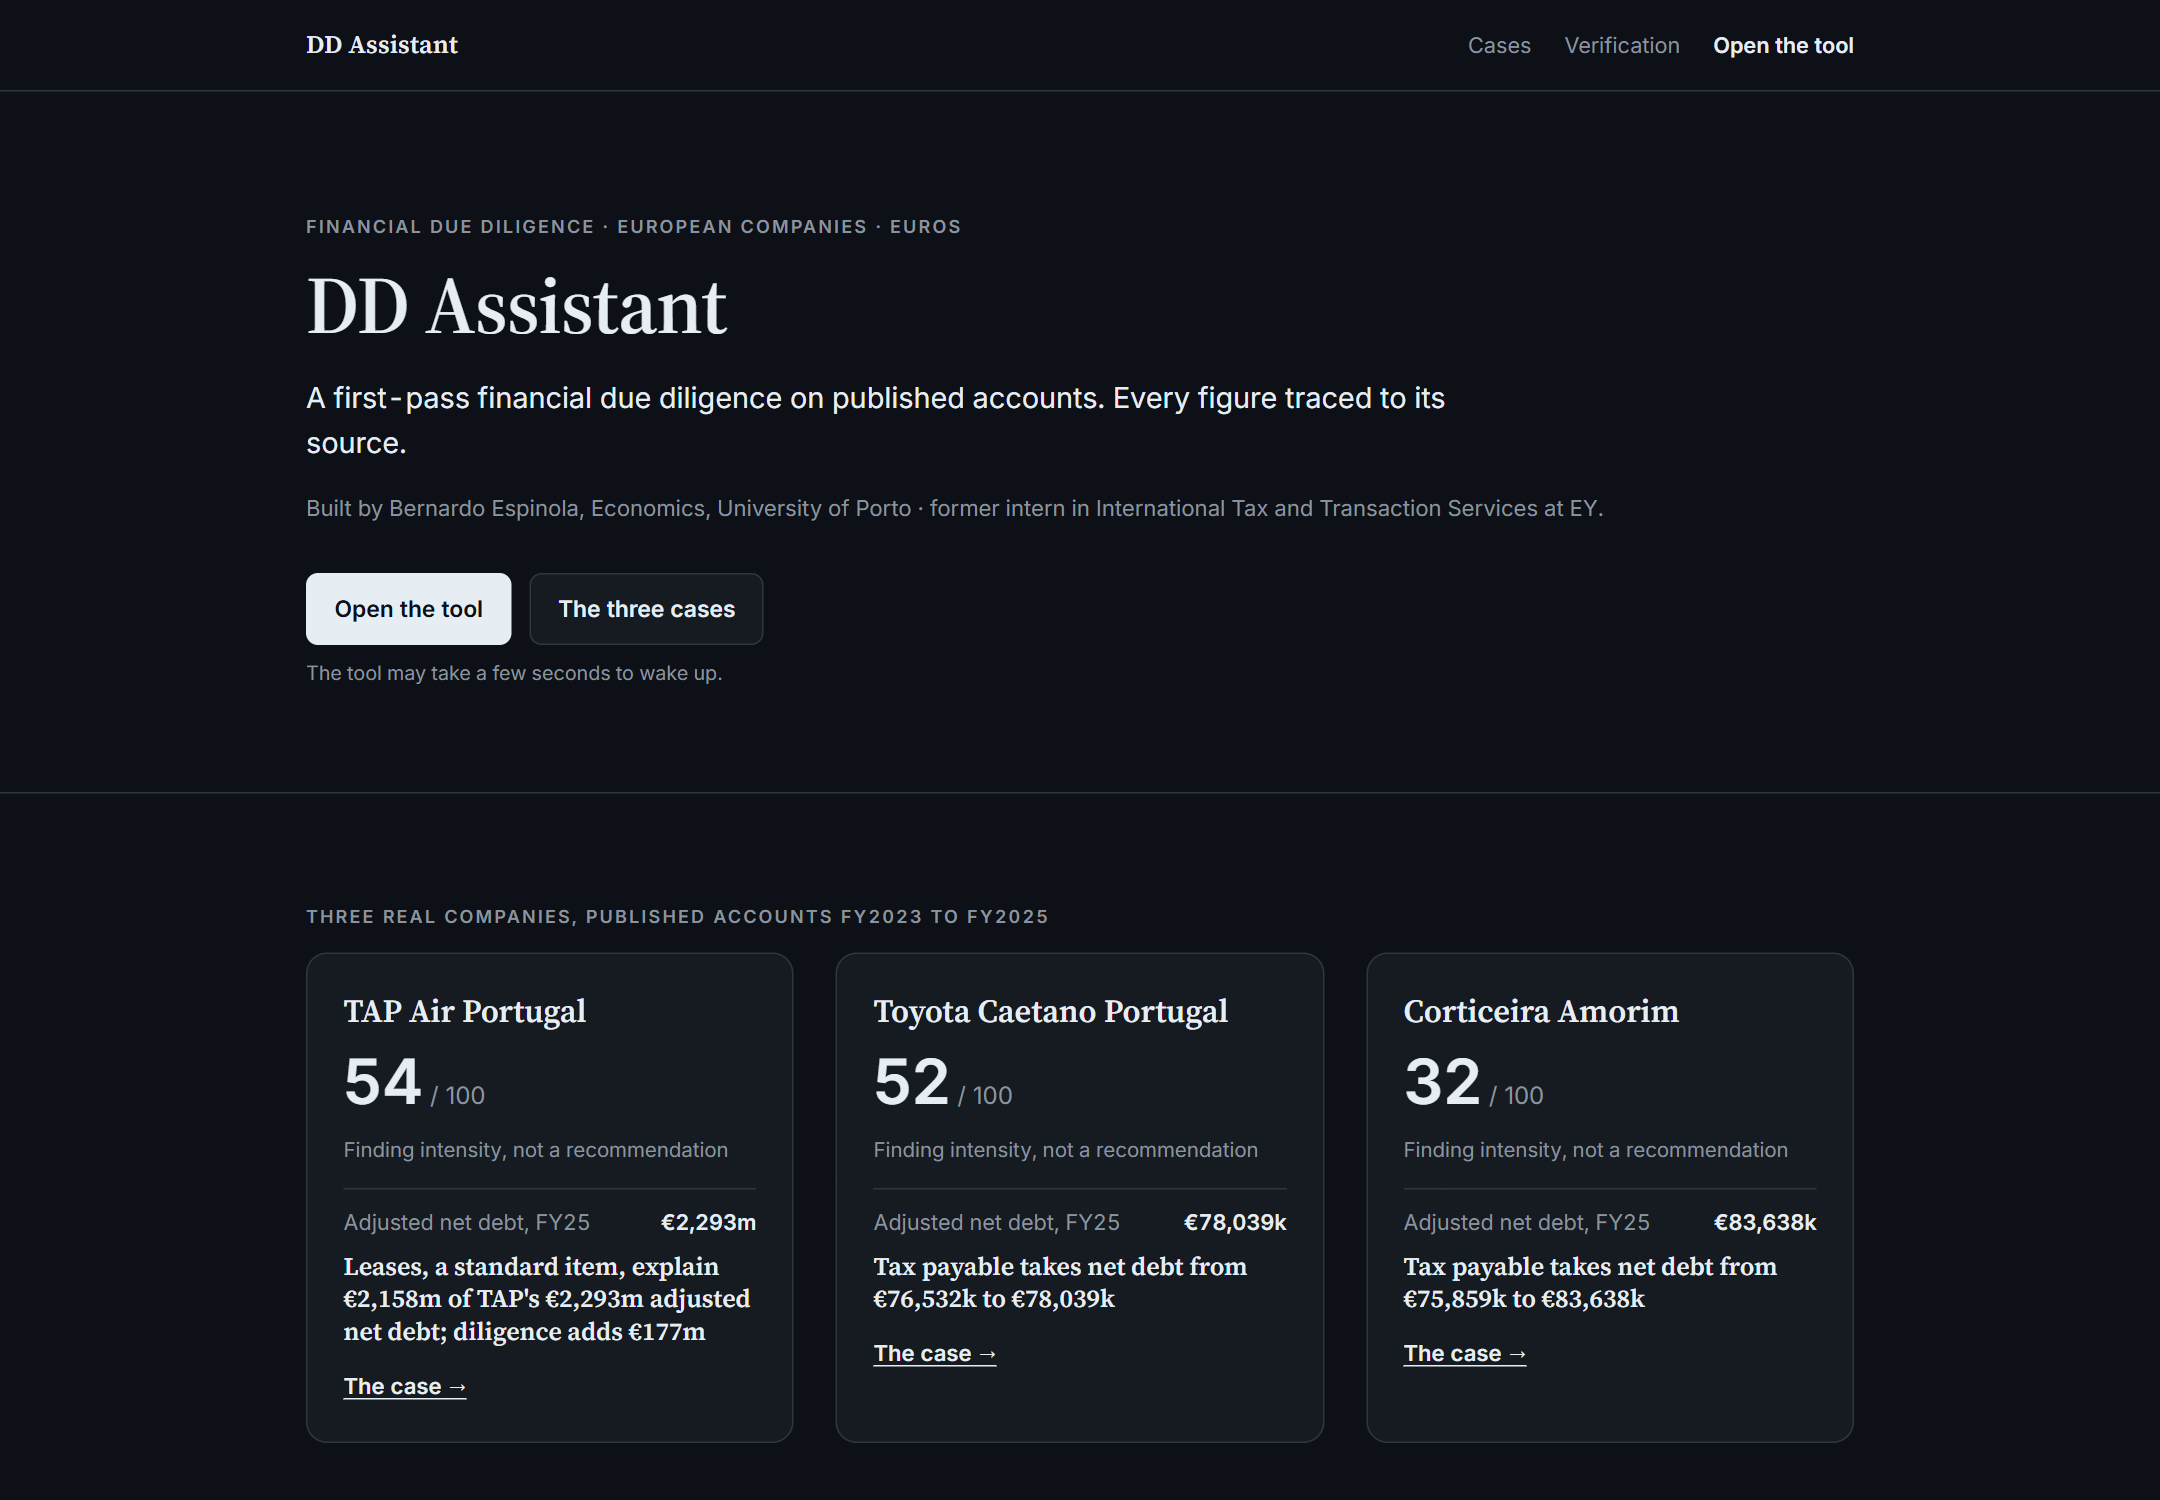
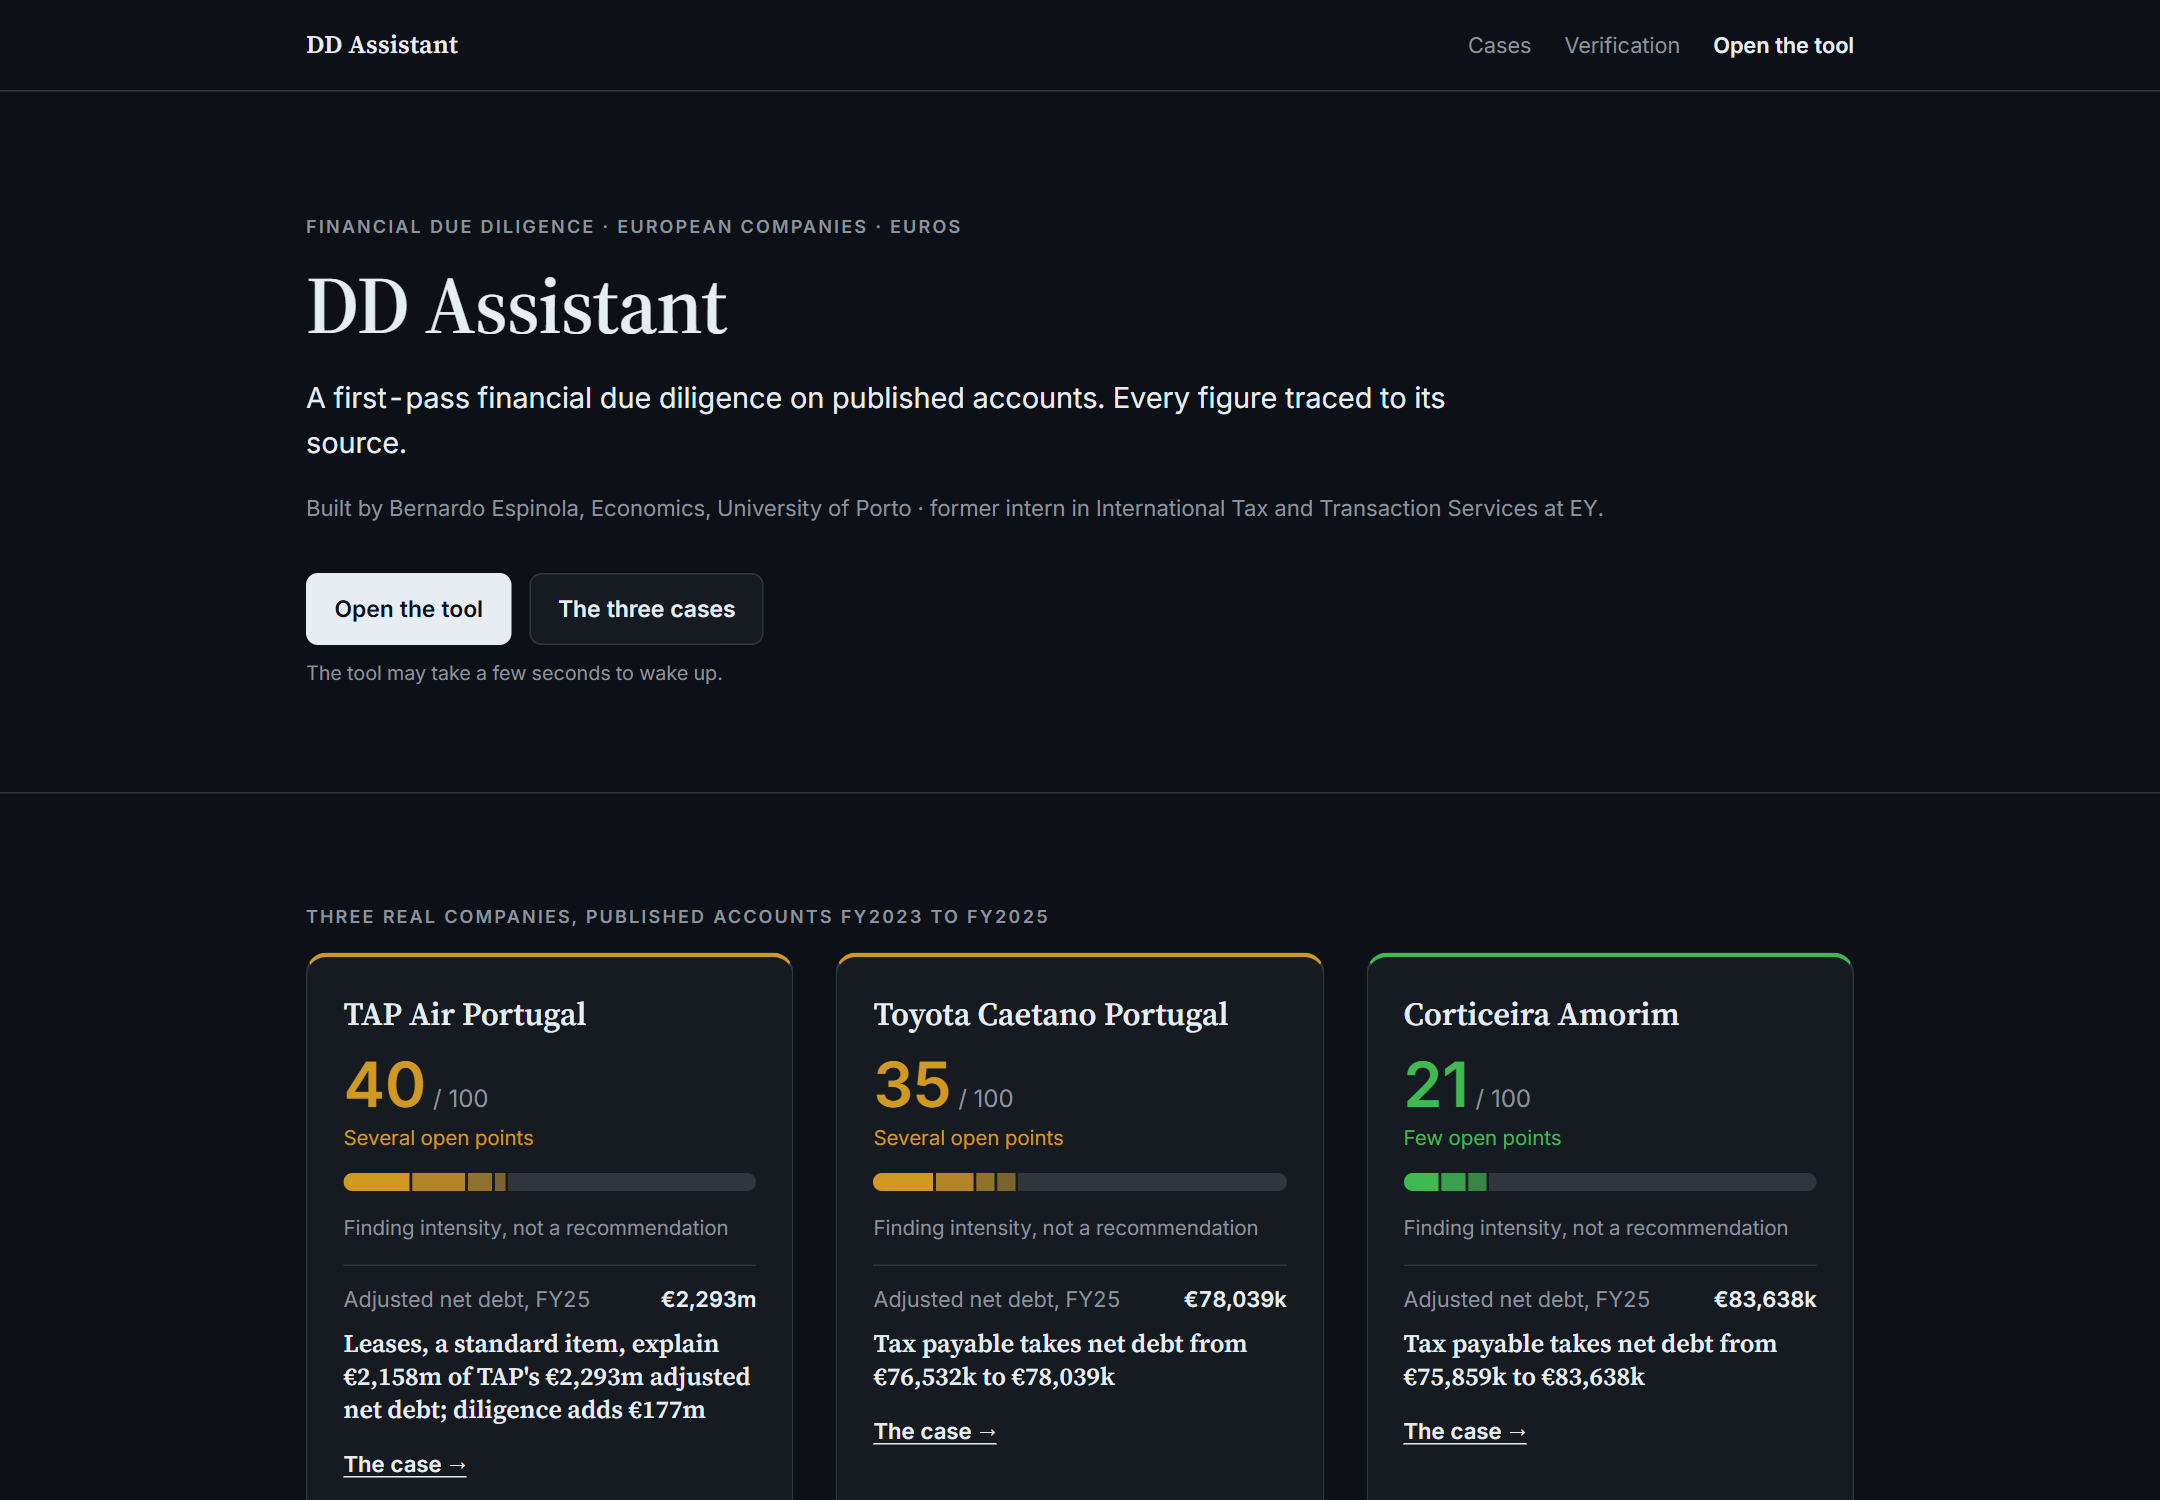
Phase 6 review: captures against the criteria; PROGRESS, GAPS and README
- scripts/demo_review.py measures the Phase 6 criteria: top readable, Summary
  without scroll, phone score within 320 px, bridges filling the card, company
  page within three screens. All met on the three companies.
- Compact view tabs on phones.
- README: new tool images, how the score works, the eight verification
  figures with their proof. PROGRESS and GAPS updated.

diff --git a/scripts/demo_review.py b/scripts/demo_review.py
@@ -1,4 +1,4 @@
-"""Review captures for docs/FASE5_DESIGN.md (section 6), with the layout criteria measured in the browser:
+"""Review captures for docs/FASE6_DESIGN.md (section 7), with the layout criteria measured in the browser:
 the tool (demo mode of app.py) for the three companies and its four views on TAP, and the static site.
 
 1. Start the tool:   $env:DD_DEMO=1; streamlit run app.py --server.port 8599
@@ -45,23 +45,35 @@ def main() -> None:
                 wide = page.evaluate("document.documentElement.scrollWidth > window.innerWidth + 1")
                 page.screenshot(path=OUT / f"tool-{name}-{size}.png")
                 if size == "desktop":
-                    parts = {"band": page.evaluate(BOTTOM, ".band"), "kpis": page.evaluate(BOTTOM, ".kpi"),
+                    parts = {"hero": page.evaluate(BOTTOM, ".hero"), "kpis": page.evaluate(BOTTOM, ".kpi"),
                              "chips": page.evaluate(BOTTOM, "[class*='st-key-chip'] button"),
                              "top5": page.evaluate(BOTTOM, ".row:not(.h)")}
                     ok = all(0 < v <= h for v in parts.values())
-                    results.append(f"1 Summary without scroll ({name}): {'met' if ok else 'FAILED'} {parts}")
+                    results.append(f"2 Summary without scroll ({name}): {'met' if ok else 'FAILED'} {parts}")
+                    top = page.evaluate("Math.min(...[...document.querySelectorAll('[data-testid=stButtonGroup], "
+                                        ".brand')].map(e => e.getBoundingClientRect().top))")
+                    bar = page.evaluate("(() => { const h = document.querySelector('[data-testid=stHeader]'); "
+                                        "return !!h && getComputedStyle(h).display !== 'none' })()")
+                    results.append(f"1 Top readable ({name}): {'met' if top <= 32 and not bar else 'FAILED'} "
+                                   f"(first control at {top:.0f} px, Streamlit bar visible={bar})")
                 else:
                     first = page.evaluate(BOTTOM, ".kpi:first-child")
-                    score = page.evaluate(BOTTOM, ".band")
-                    ok = not wide and 0 < first <= h and 0 < score <= h
+                    score = page.evaluate("document.querySelector('.hero .big').getBoundingClientRect().top")
+                    ok = not wide and 0 < score <= 320
                     results.append(f"2 Phone ({name}): {'met' if ok else 'FAILED'} horizontal scroll={wide}, "
-                                   f"score bottom={score:.0f}, first KPI bottom={first:.0f}")
+                                   f"score top={score:.0f} (criterion: within 320 px)")
                 if name == "tap":
                     for view in VIEWS:
                         page.locator("[data-testid='stButtonGroup'] button", has_text=view).first.click()
                         page.wait_for_timeout(2500)
                         page.set_viewport_size({"width": w, "height": 3600})
                         page.wait_for_timeout(1500)
+                        if view == "Impact" and size == "desktop":
+                            ratio = page.evaluate("Math.min(...[...document.querySelectorAll('.ddc-wide svg')]"
+                                                  ".map(s => s.getBoundingClientRect().width / "
+                                                  "s.closest('.ddc').getBoundingClientRect().width))")
+                            results.append(f"8 Bridges fill the card: {'met' if ratio >= .9 else 'FAILED'} "
+                                           f"(narrowest {ratio:.0%} of its card)")
                         page.screenshot(path=OUT / f"tool-tap-{view.lower()}-{size}.png")
                         page.set_viewport_size({"width": w, "height": h})
                     page.locator("[data-testid='stButtonGroup'] button", has_text="Summary").first.click()

diff --git a/tool.py b/tool.py
@@ -99,6 +99,8 @@ CSS = f"""<style>
   .row .p {{grid-column:2 / span 2}}
   .row.h {{display:none}}
   .meta {{text-align:left; line-height:20px}}
+  .st-key-view button {{padding:4px 9px; min-height:34px}}
+  .st-key-view div[data-testid="stButtonGroup"] {{flex-wrap:nowrap}}
 }}
 .title {{font-family:'Source Serif 4', Georgia, serif; font-size:22px; line-height:1.3; color:{charts.TEXT};
   font-weight:600; margin:2px 0 8px}}

diff --git a/README.md b/README.md
@@ -18,7 +18,9 @@
 
 ![The tool on TAP Air Portugal: Summary](docs/images/tool-summary.png)
 
-*The tool on TAP Air Portugal, Summary: the diligence risk score (finding intensity, not a recommendation) with what is still open, four KPIs with their source page, the five areas and the top five deal issues with the protection or next step. Findings, Impact and Evidence are one click away.*
+*The tool on TAP Air Portugal, Summary: the diligence risk score in the colour of its band (40 / 100, several open points; finding intensity, not a recommendation), its split by area and every point behind it, four KPIs coloured by what they mean for a buyer, and the top five deal issues of FY25 tinted by severity. Red is worse for the buyer, green is better or checks out, amber is Medium only. Leases, unflown tickets and the working capital peg sit apart as "Already in the price".*
+
+**How the score works.** Each open issue of the latest year gets points: severity (High 3, Medium 2, Low 1) × materiality (material 1, not quantifiable 0.75, below materiality 0.5) × evidence (open 1, partly explained by a note 0.75, explained 0.5). 30 points = 100, that is ten open, material High findings. A finding that fired only in an earlier year is historical: it stays in Findings with its year, out of the score and the top issues. Materiality is 5% of reported EBITDA for earnings items and 1% of revenue for balance sheet items. The score is a triage index, not a probability: issues are ranked by amount at stake, never by points.
 
 It reads a company's statements (Excel, PDF, Word or an ESEF filing), checks its own reading against the published subtotals, and returns what a deal team asks for first: quality of earnings (QoE), net debt with debt-like items, net working capital (NWC), 30 red-flag rules with their sources, a two-page memo, the request list, an Excel databook with live formulas and a Red Flag Report in nine slides. European companies, euros only.
 
@@ -67,9 +69,20 @@ The website shows the conclusions (score, top three issues, one chart, coverage)
 
 ## How it is verified
 
-**Measured**
+**Measured** (the website shows these eight figures, counted by the code when it is built)
 
-- **262 automated tests** (`python -m unittest`), run on every change.
+| Figure | What it is | Proof |
+|---|---|---|
+| **311** | automated tests, all passing | `python -m unittest` |
+| **30** | rules, each with its threshold, source and plain-language reason | `python -m dd_assistant --rules` |
+| **100%** | of the 123 lines read on the three companies carry their source cell, page or tag | `CompanyData.sources` |
+| **415** | memo figures checked against the material, 0 without a source | `docs/examples/*/memo_check.md` |
+| **10 of 10** | published subtotals rebuilt from the lines read | `tests/test_real_companies.py` |
+| **48 of 49** | planted distortions detected, one at a time (1 missed: TAP, M18) | [`docs/DETECTION.md`](docs/DETECTION.md) |
+| **0** | false alarms on the clean company (Velmora) | `tests/test_clean_company.py` |
+| **27 of 27** | databook totals: Excel recalculated = Python | databook Checks sheet, `tests/test_databook.py` |
+
+- **Automated tests** (`python -m unittest`), run on every change.
 - **Parity with a hand-built Excel template:** the Python gives exactly the template's metrics, rule values, thresholds and severities.
 - **Published totals rebuilt:** on each real company, the subtotals rebuilt from the lines read must equal the published ones, and the balance sheet must balance. Operating profit is rebuilt to the euro for TAP and Toyota Caetano; EBITDA is within the report's own €2k rounding for Corticeira Amorim.
 - **No false alarm on a clean company:** a fictitious company designed to pass raises no finding.

diff --git a/docs/PROGRESS.md b/docs/PROGRESS.md
@@ -242,3 +242,20 @@ A secção 6b referida na mensagem do Bernardo não estava no ficheiro; as 10 li
 - Os números de ordem (1 a 5) e as somas agrupadas ficam fora da verificação de números (`data-nocheck`), como no site.
 
 **Próximo passo exato:** aprovação do Bernardo para o push; depois, ativar o GitHub Pages se ainda não estiver (passos em `docs/DEPLOY.md`).
+
+## Fase 6 (docs/FASE6_DESIGN.md, 17 de novembro de 2026)
+
+**Feito** (três commits locais, sem push)
+- **Erro do R11 corrigido.** O 4.º top issue da TAP (R11, €450m, High) era de FY23; em FY25 a dívida a menos de um ano é 2,8%. Um achado que só disparou antes do último ano testado passa a *historical*: Low, com o ano, em Findings; fora do top, do score e das ações. Teste `CurrentYearTest` (falha se um achado antigo entrar no top 5 como atual). Também históricos: R24 da TAP, R11/R27/R29/R25 da Toyota, R11/R10 da Amorim, R13/R14 da Duriva.
+- **Scores novos:** TAP 40, Toyota 35, Amorim 21, Duriva 100, Velmora 0 (antes 54, 52, 32). Faixas: <25 *Few open points* (verde), 25–59 *Several* (âmbar), ≥60 *Many* (vermelho).
+- **Top deal issues:** só achados e itens de diligence do último ano, todos os High abertos primeiro, por montante. TAP: R28 · Provisions · R22 · Pensions · R07. Leasings, receita diferida da TAP e o NWC contra o peg passam a **"Already in the price"** (`deal_layer.in_price`).
+- **App:** barra do Streamlit escondida; barra própria (marca, TAP/Toyota/Amorim, FY, unidade, databook); herói com o score na cor da faixa, barra por área, frase simples e cada ponto por issue; KPIs coloridos (Leverage ↔ R21, FCF pelo sinal, Reading checks); legenda dos símbolos; linhas e cartões tingidos pela severidade; "blocked" passa a □; Evidence com ações agrupadas por ação e encaminhamentos por workstream; pontes a toda a largura (duas versões do SVG: larga e telemóvel).
+- **Site:** o mesmo herói; cartões tingidos; "Already in the price"; "How the score works" em 3 passos com a TAP; verificação com **8 números** contados no build, cada um com a prova (311 testes · 30 regras · 100% das 123 linhas com fonte · 415 números do memo, 0 sem fonte · 10 de 10 subtotais · 48 de 49 distorções · 0 alarmes na Velmora · 27 de 27 totais Excel = Python).
+- **Material do memo:** linhas do score com título, faixa, contagens, "Already in the price" e "Reading checks passed: N of M" (para o verificador conhecer cada número novo).
+- **Bug antigo encontrado:** o teste de palavras proibidas do site tinha caracteres de controlo em vez de `\b` e não verificava nada; corrigido (agora igual ao da ferramenta).
+
+**Critérios (secção 7), medidos por `scripts/demo_review.py`:** 1 topo legível (primeiro controlo aos 24 px, barra do Streamlit invisível) · 2 Summary sem scroll a 1440×900 nas três empresas (top 5 acaba aos 890 px); telemóvel sem scroll horizontal, score aos 257 px · 8 pontes ≥ 96% do cartão · 9 página de empresa 1958 px (< 3 ecrãs). Testes cobrem 3, 4, 6, 9 e 10. **311 testes OK.**
+
+**Desvios ao desenho:** o Impact ficou empilhado (não em duas colunas) para as pontes ocuparem a largura; os títulos dos gráficos não foram encurtados a 70 caracteres (são gerados pelo motor e verificados no memo).
+
+**Próximo passo exato:** aprovação do Bernardo para o push. Depois: reescrever os três memos de exemplo sem os achados históricos como key issues (GAPS).

diff --git a/docs/GAPS.md b/docs/GAPS.md
@@ -26,3 +26,7 @@ Atualizado em cada incremento. "Não verificado" quer dizer que não há evidên
 | Visuais "assinatura" para o LinkedIn | A secção 4 do FASE5_DESIGN pede três imagens 1200×1200; os títulos já são gerados pelo motor e estão na ferramenta e no site, mas as imagens não foram produzidas | — | Fase 5 | Captar as três peças do site (ponte de net debt, mapa de cobertura, cartão de issue) | Claude Code | Três PNG 1200×1200 em docs/images, com teste dos títulos | Aberta |
 | App local (upload e IA) com o tema escuro | Só o modo demo foi redesenhado; os cartões brancos da app antiga ficam claros sobre o fundo escuro | — | Fase 5 | A app local funciona; é usada só neste PC | Claude Code | A app local com a mesma paleta, ou o mesmo `tool.py` sobre os ficheiros carregados | Aberta |
 | Imagens e GIF da demo antiga | `scripts/demo_screenshots.py` percorre a app antiga (visita, página inicial) e já não corre; o GIF e a social preview mostram o desenho anterior | — | Fase 5 | README usa as capturas novas (`tool-summary.png`, `tool-impact.png`) | Claude Code | Script refeito para a ferramenta; GIF e social preview novos | Aberta |
+| Memos de exemplo anteriores à Fase 6 | Os três memos guardados ainda têm a R11 (TAP, Toyota) na tabela "Key issues by amount at stake" e a R27 da Toyota como tema; passam no verificador (os números existem no material), mas não dizem que esses achados são históricos | Reescrever os memos com a skill (sem API) | Fase 6 | A app, o site, o databook e o material já mostram "historical" | Claude Code (com aprovação) | Memos reescritos, verificador a passar, sem achado histórico como key issue | Aberta |
+| Peso dos achados históricos | Um achado só de anos anteriores sai do score e do top (ex.: R27 da Toyota, D&A +65,5% em FY24, encontrada por um revisor). Pode ser cedo demais para esquecer | Decisão do Bernardo: 0 (hoje) ou um fator de 0,5 | Fase 6 | Fica em Findings com o ano e severidade Low | Bernardo | Decisão registada e teste | Aberta por decisão |
+| Materialidade sobre o EV | O FASE6_DESIGN propõe 1% do EV quando houver preço; hoje só há 5% do EBITDA e 1% das vendas | Um EV introduzido pelo utilizador | Fase 6 | Limiares atuais, editáveis | Claude Code | EV no Price → materialidade do EV, com teste | Aberta |
+| Faixas do score (25 e 60) | As palavras "few / several / many open points" usam limites escolhidos por nós, sem fonte externa (não existe uma pública para este índice) | — | Fase 6 | Score sempre decomposto ponto a ponto | Bernardo | Limites revistos por alguém de TS | Aberta: escolha documentada no FASE6_DESIGN |
